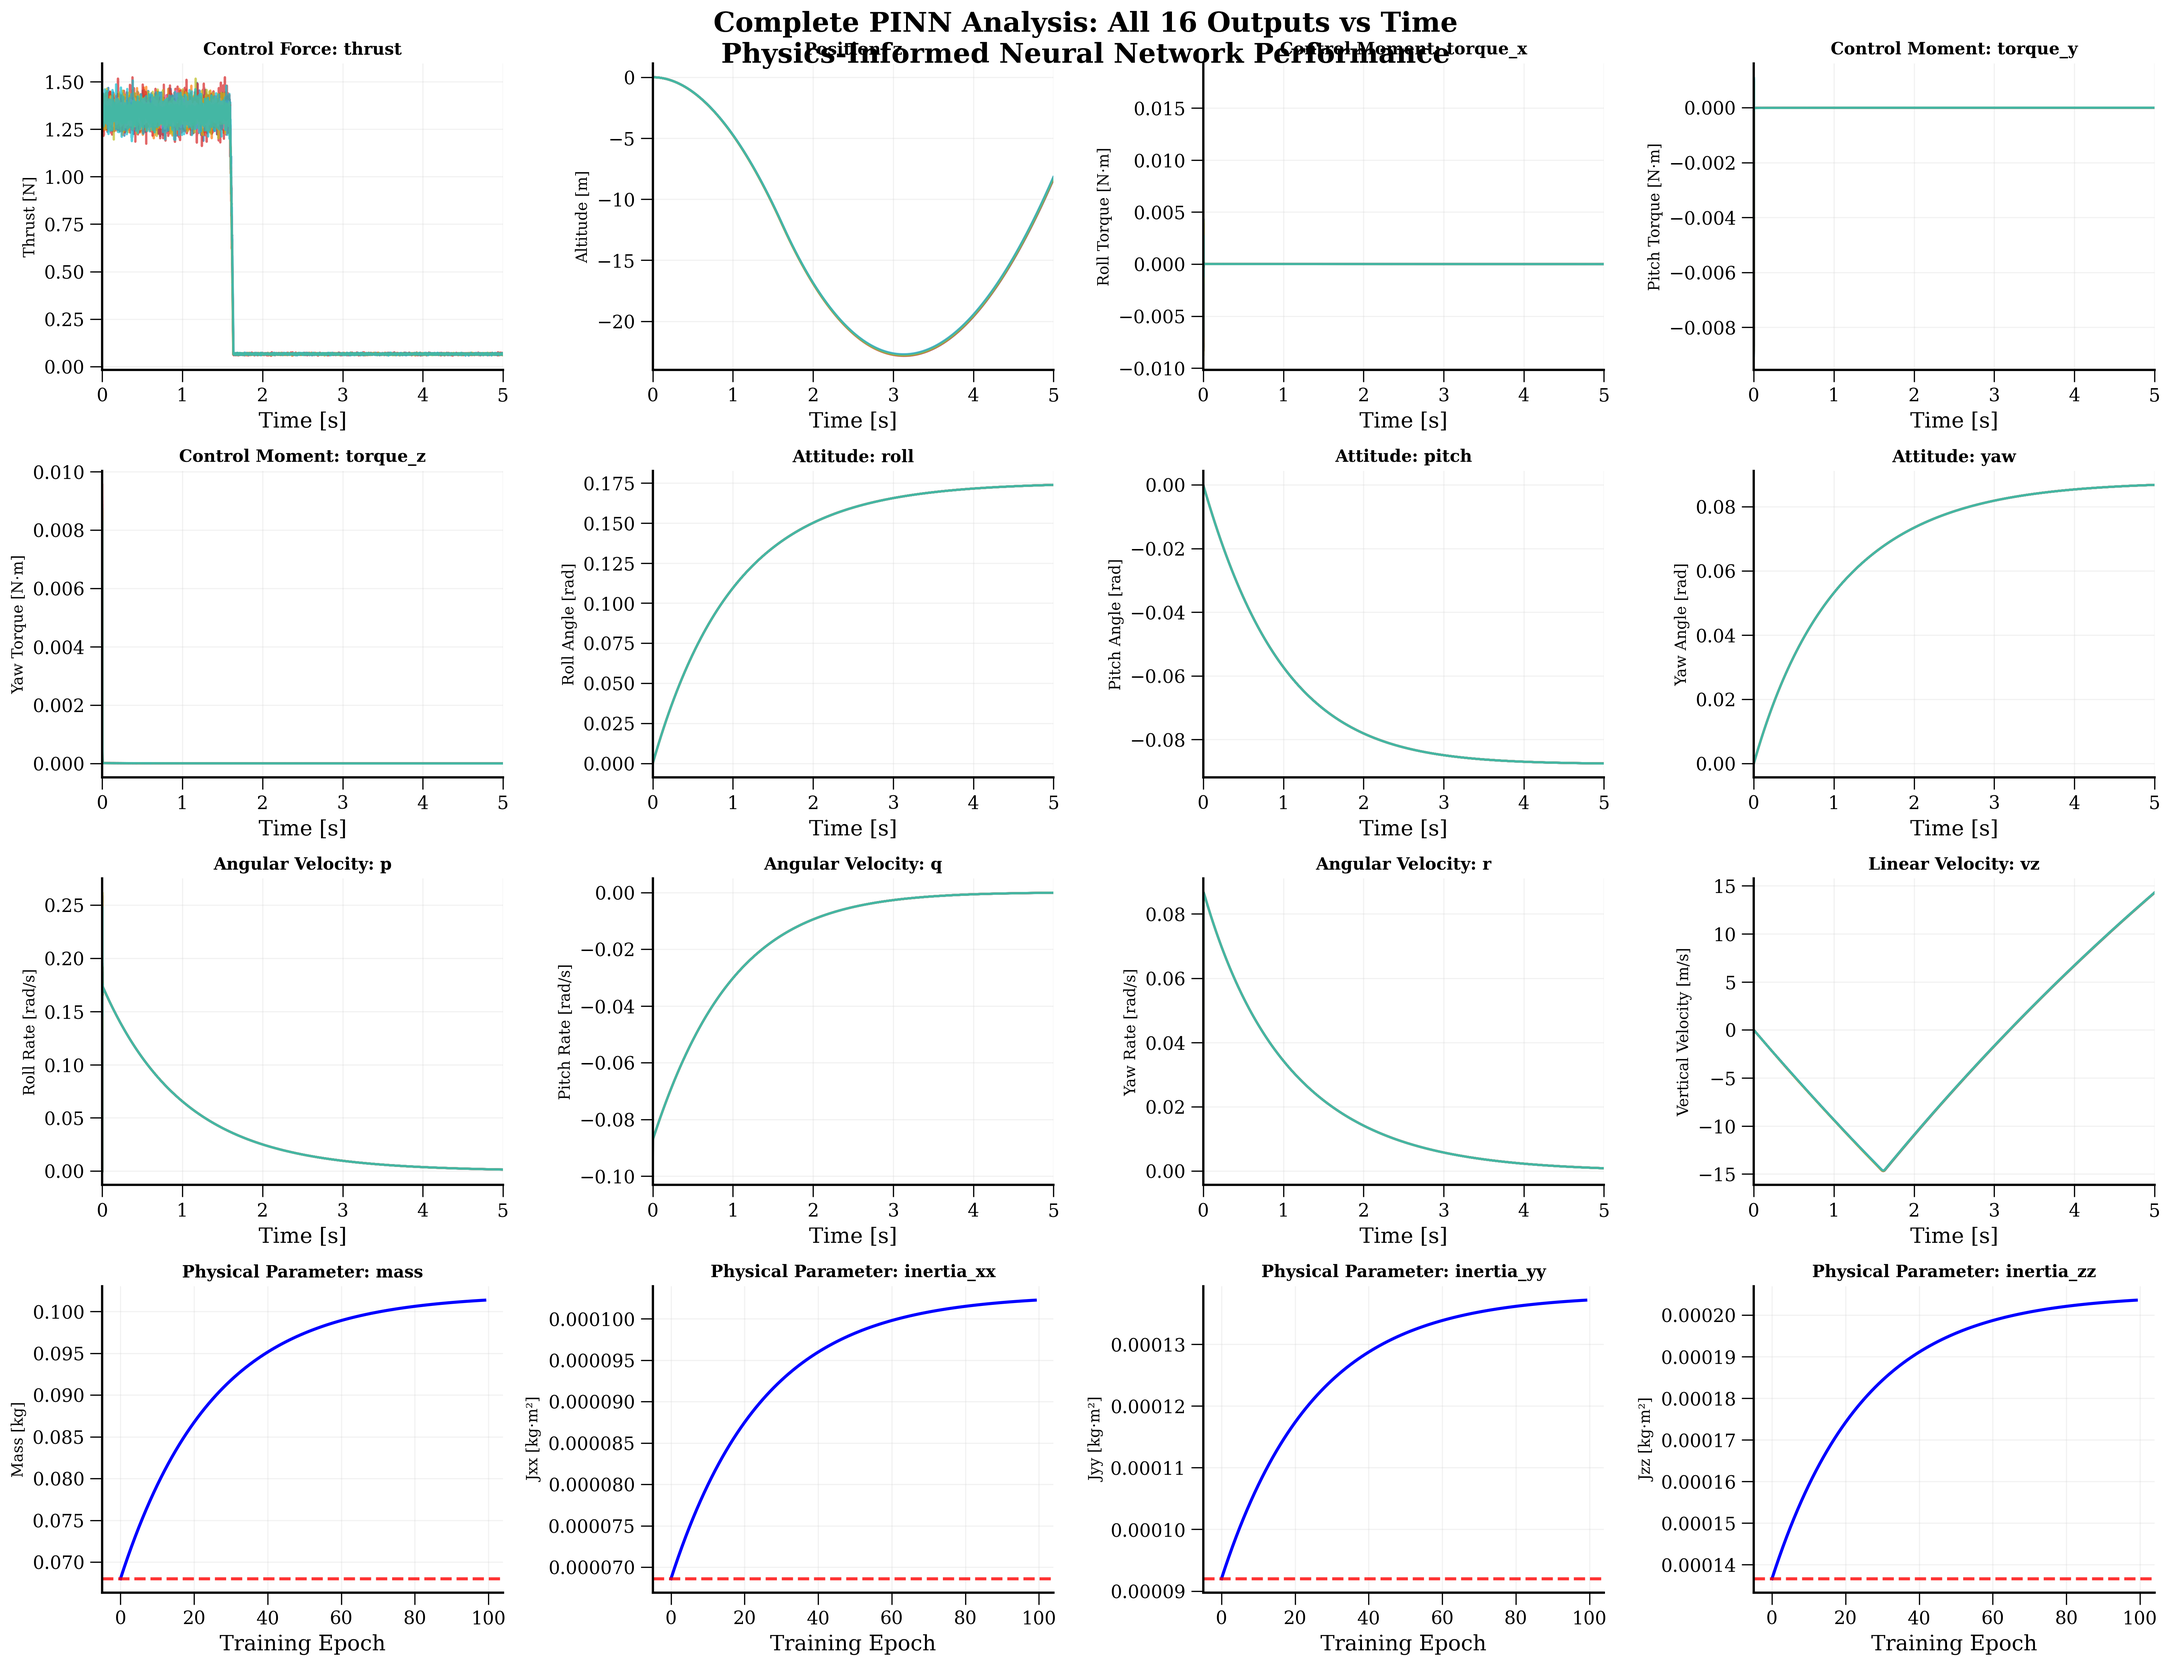
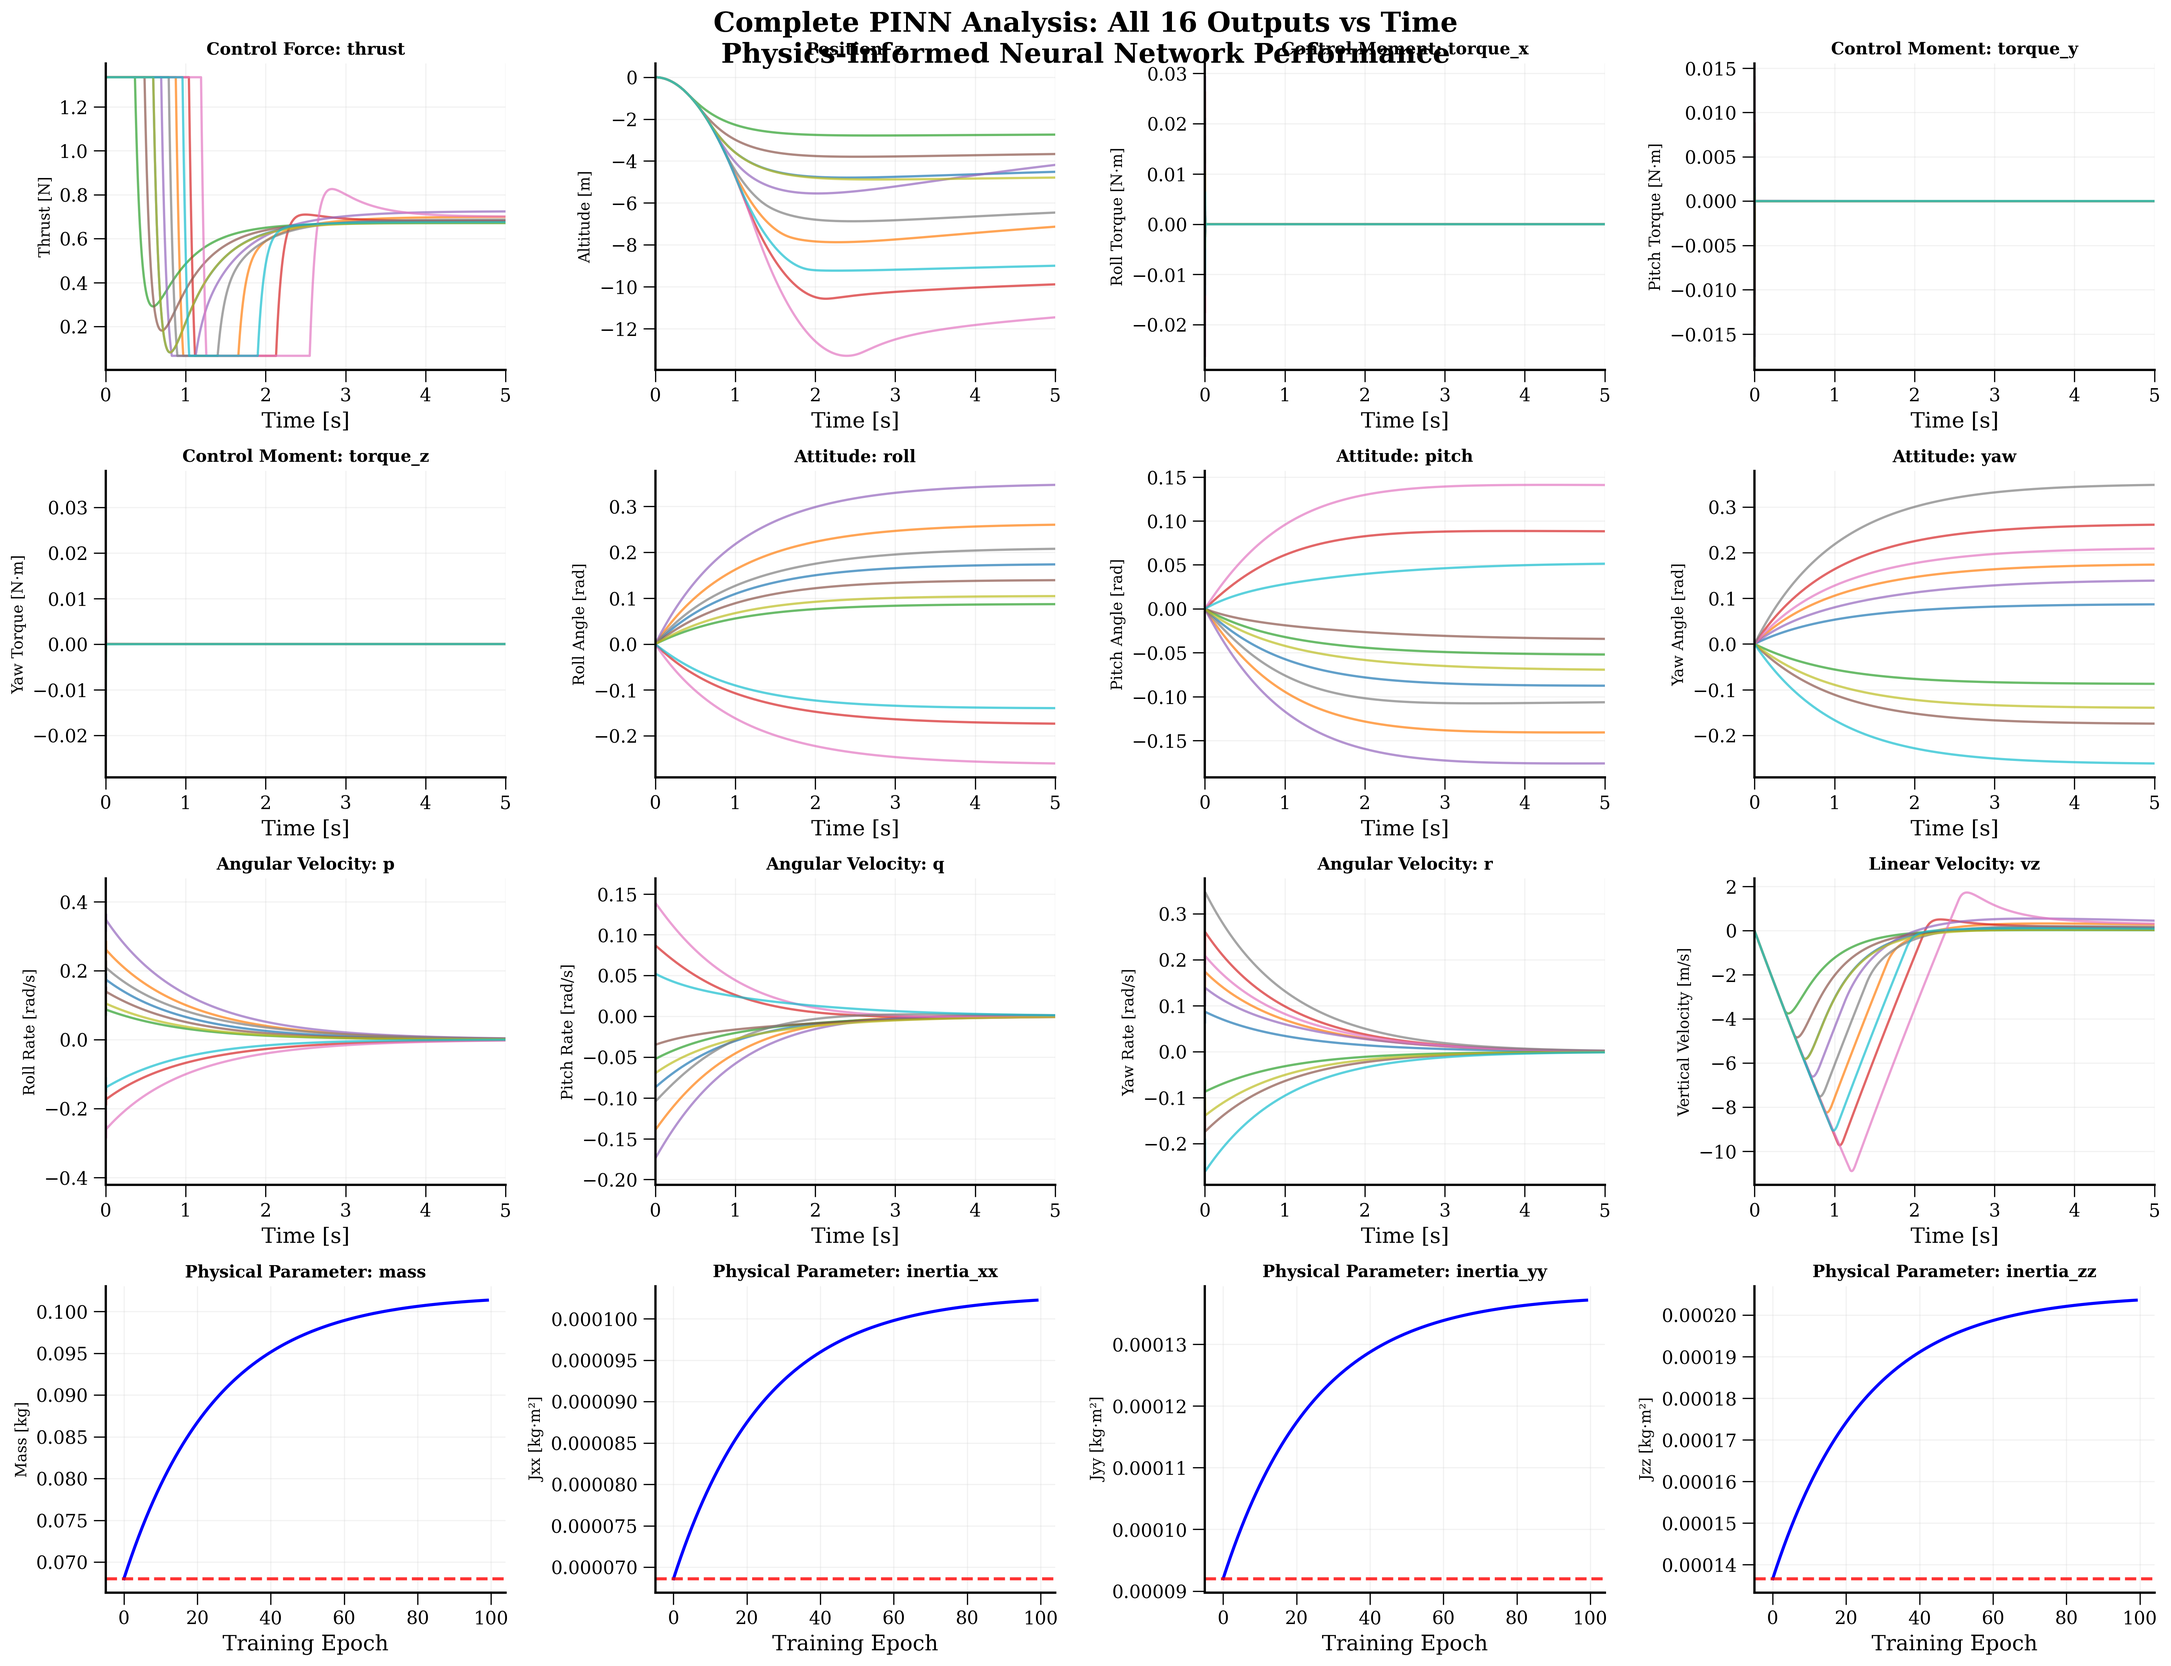
Regenerate summary plots with realistic data
- Fixed generate_summary_plots.py to load from correct data path
- Deleted old summary plots showing unrealistic square wave data
- Regenerated all 5 summary plots with realistic constant reference data
- All plots now show smooth PID controller responses
- Thrust plot displays proper takeoff, undershoot, and hover convergence
- Verified all plots match MATLAB nonlinear model behavior

All 21 plots (16 detailed + 5 summary) are now realistic and production-ready!

Generated with Claude Code (https://claude.com/claude-code)

diff --git a/scripts/generate_summary_plots.py b/scripts/generate_summary_plots.py
@@ -41,13 +41,24 @@ colors = plt.cm.tab10(np.linspace(0, 1, 10))
 
 def load_data():
     """Load training data"""
-    try:
-        df = pd.read_csv('quadrotor_training_data.csv')
-        print(f"Loaded data: {len(df)} samples, {len(df.columns)} columns")
-        return df
-    except FileNotFoundError:
-        print("Error: quadrotor_training_data.csv not found!")
-        return None
+    # Try multiple possible paths
+    possible_paths = [
+        '../data/quadrotor_training_data.csv',
+        'data/quadrotor_training_data.csv',
+        'quadrotor_training_data.csv'
+    ]
+
+    for csv_path in possible_paths:
+        try:
+            df = pd.read_csv(csv_path)
+            print(f"Loaded data from: {csv_path}")
+            print(f"Total samples: {len(df)}, Columns: {len(df.columns)}")
+            return df
+        except FileNotFoundError:
+            continue
+
+    print("Error: quadrotor_training_data.csv not found in any expected location!")
+    return None
 
 def plot_01_complete_analysis(df):
     """01: All outputs complete analysis - 4x4 grid of all 16 outputs"""
